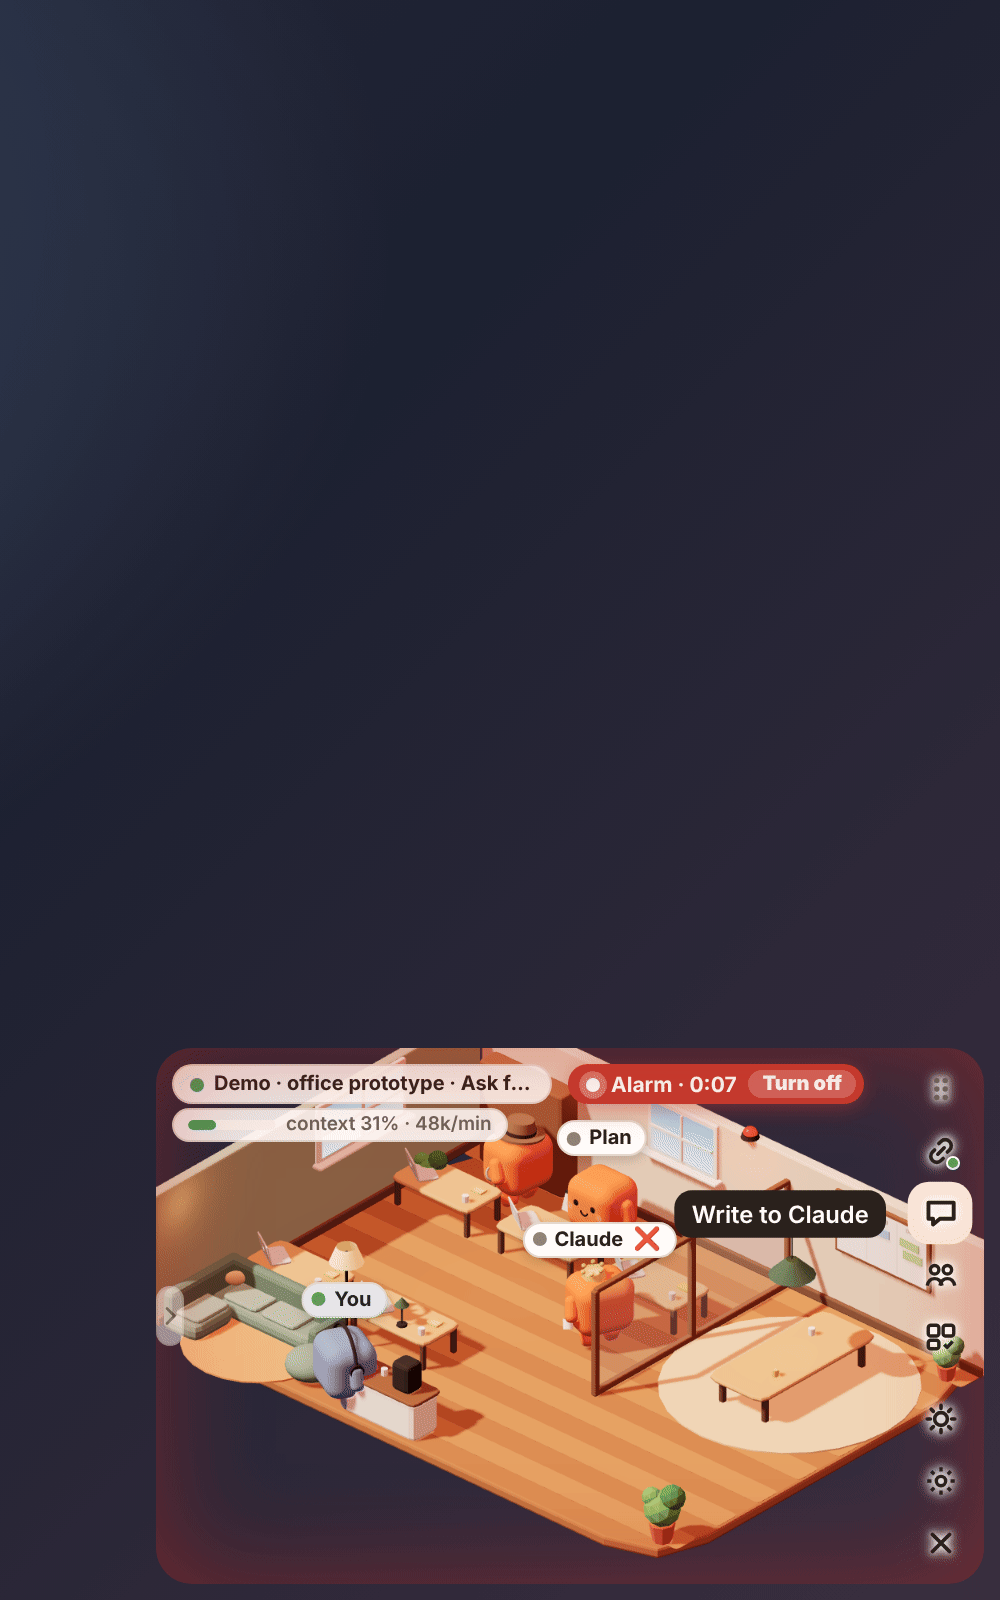
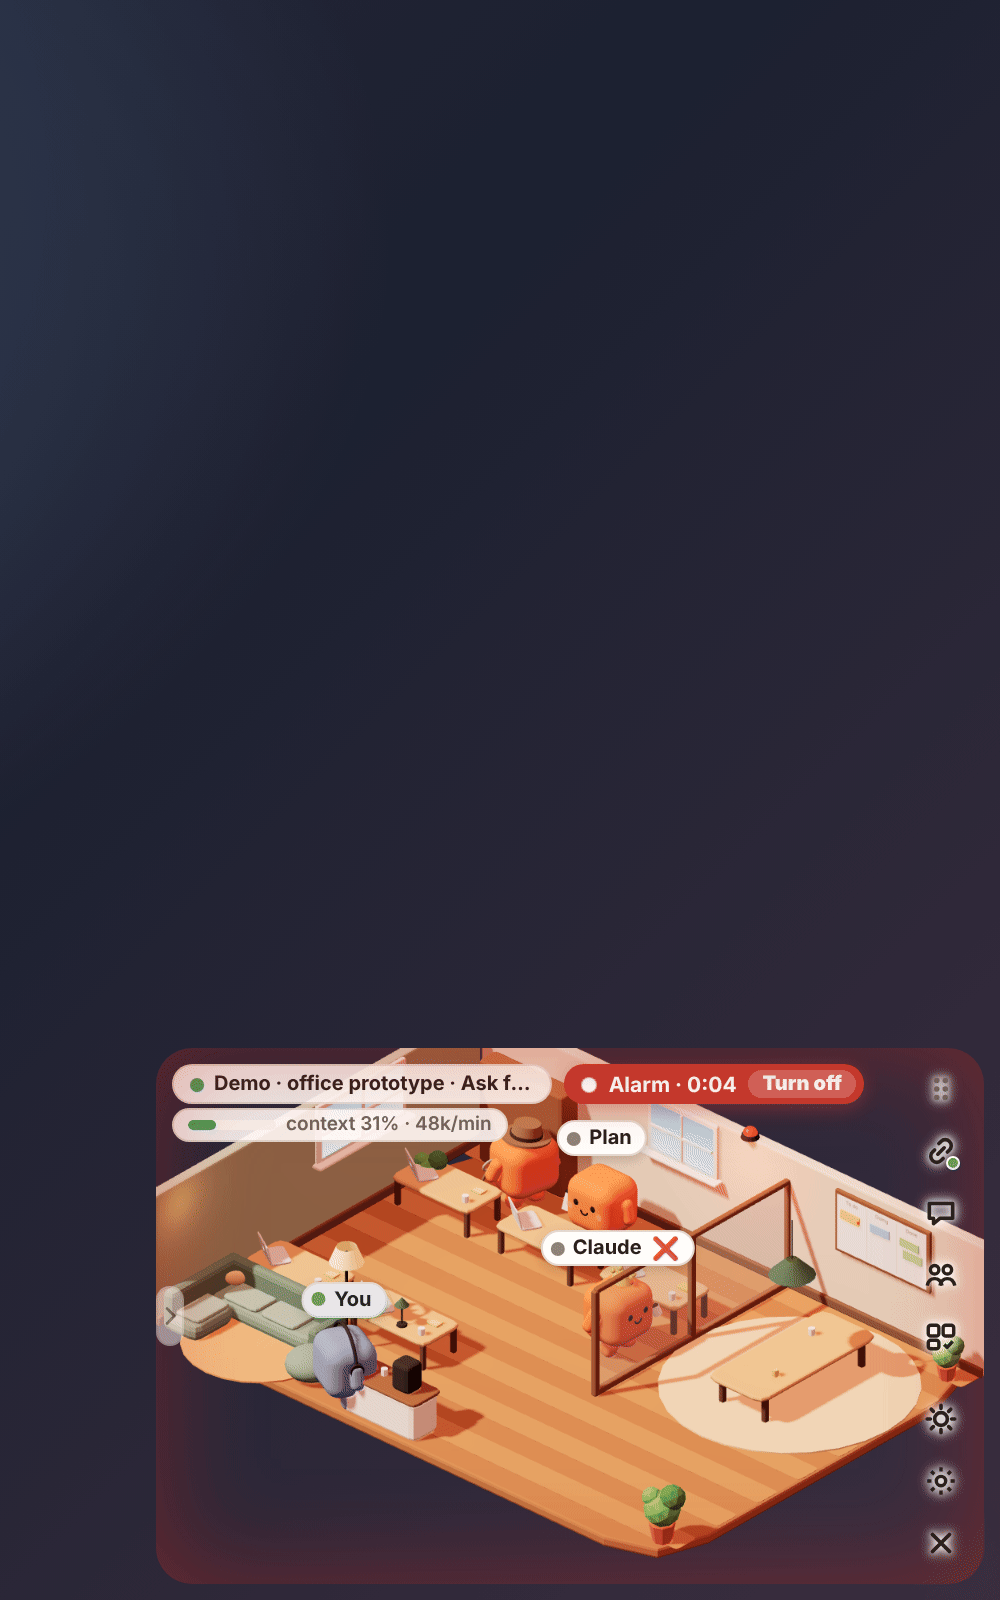
docs: retake the README media and list the UI checks
The screenshots and GIFs show the new tag and bubble placement, and
the capture script moves the pointer off the dock first so no hover
tooltip ends up in a picture. The README's development section lists
the UI audit and smoke test.

Claude-Session: https://claude.ai/code/session_01HwqNZ9xLNPAkUFUDh789uH

diff --git a/README.md b/README.md
@@ -234,6 +234,10 @@ npx vite build
   session.
 - **README media:** `scripts/capture-media.cjs` regenerates every screenshot and GIF from the
   demo build with Playwright and ffmpeg.
+- **UI checks:** `scripts/ui-audit.cjs` walks the demo through every panel, card and state at
+  the app's 482×750 size, on a laptop screen and on a phone, and reports overlapping or cut-off
+  text, anything off screen and clicks that cannot land; `scripts/ui-smoke.cjs` checks the
+  keyboard shortcuts, office commands and settings. Both need Playwright with Chromium.
 - **CI** runs the bridge tests, the frontend build and the Rust tests. A `vX.Y.Z` tag builds
   the Windows installers into a draft release.
 
